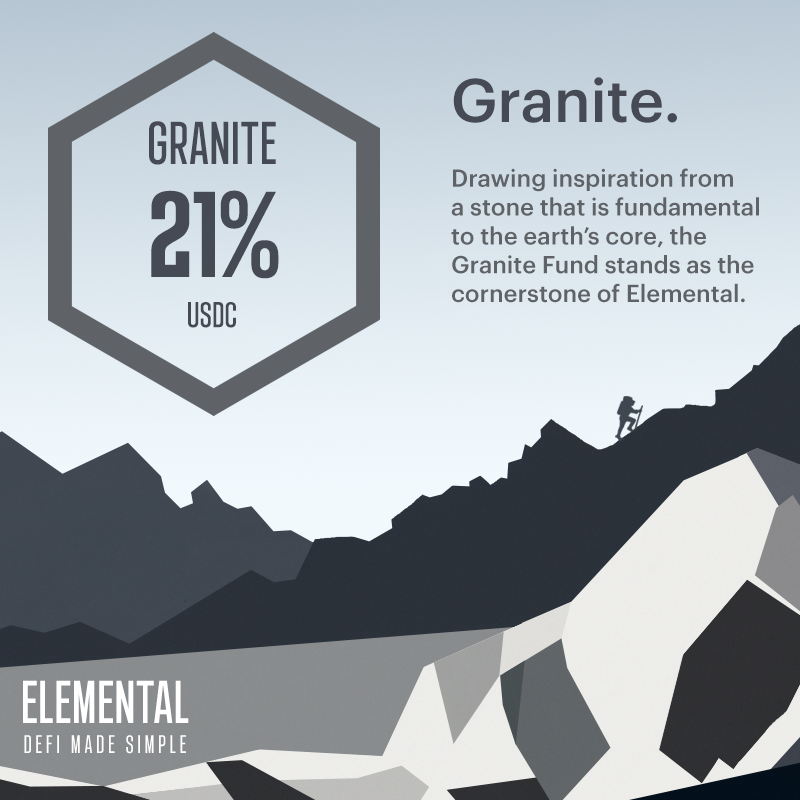
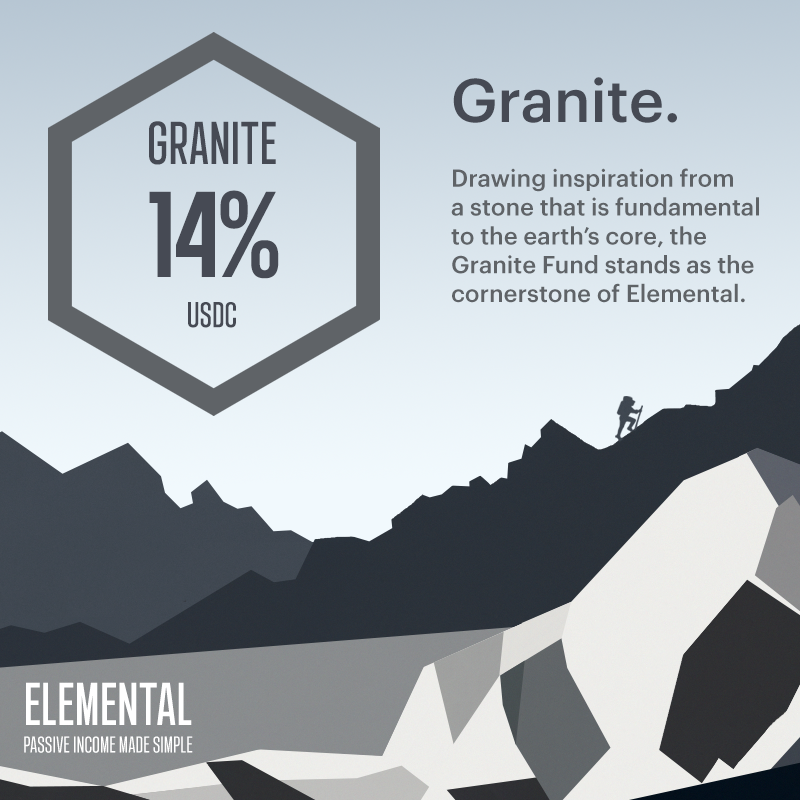
GITBOOK-296: change request with no subject merged in GitBook

Changed region(s): [[0.0312, 0.8438, 0.25, 0.9375], [0.1875, 0.2188, 0.25, 0.3438]]

diff --git a/businesses/elemental/granite.md b/businesses/elemental/granite.md
@@ -1,6 +1,6 @@
 # Granite Fund
 
-## Granite Fund (14% APR)
+## Granite Fund (36% APR)
 
 The Granite Fund is Elemental's flagship USDC fund, designed to offer the highest capital-protected, risk-adjusted returns for investors.
 
@@ -12,7 +12,7 @@ _Key Risk: Various stablecoins depegging, oracle issues, protocols getting explo
 
 ## Artwork
 
-<figure><img src="../../.gitbook/assets/fund_artwork_granite (1).png" alt=""><figcaption><p>Granite Fund Artwork</p></figcaption></figure>
+<figure><img src="../../.gitbook/assets/fund_artwork_granite.png" alt=""><figcaption><p>Granite Fund Artwork</p></figcaption></figure>
 
 ## Fund Characteristics
 

diff --git a/press-kit/white-papers.md b/press-kit/white-papers.md
@@ -1,3 +1,5 @@
 # White Papers
 
+{% file src="../.gitbook/assets/Deo Litepaper.pdf" %}
+
 {% file src="../.gitbook/assets/Token Accumulators A Protocol that Systematically Captures Market Inefficiencies.pdf" %}

diff --git a/businesses/elemental/loam.md b/businesses/elemental/loam.md
@@ -1,6 +1,6 @@
 # Loam Fund
 
-## Loam Fund (13% APR)
+## Loam Fund (25% APR)
 
 The Loam Fund provides capital protection, risk-adjusted returns, and accessibility to all.
 
